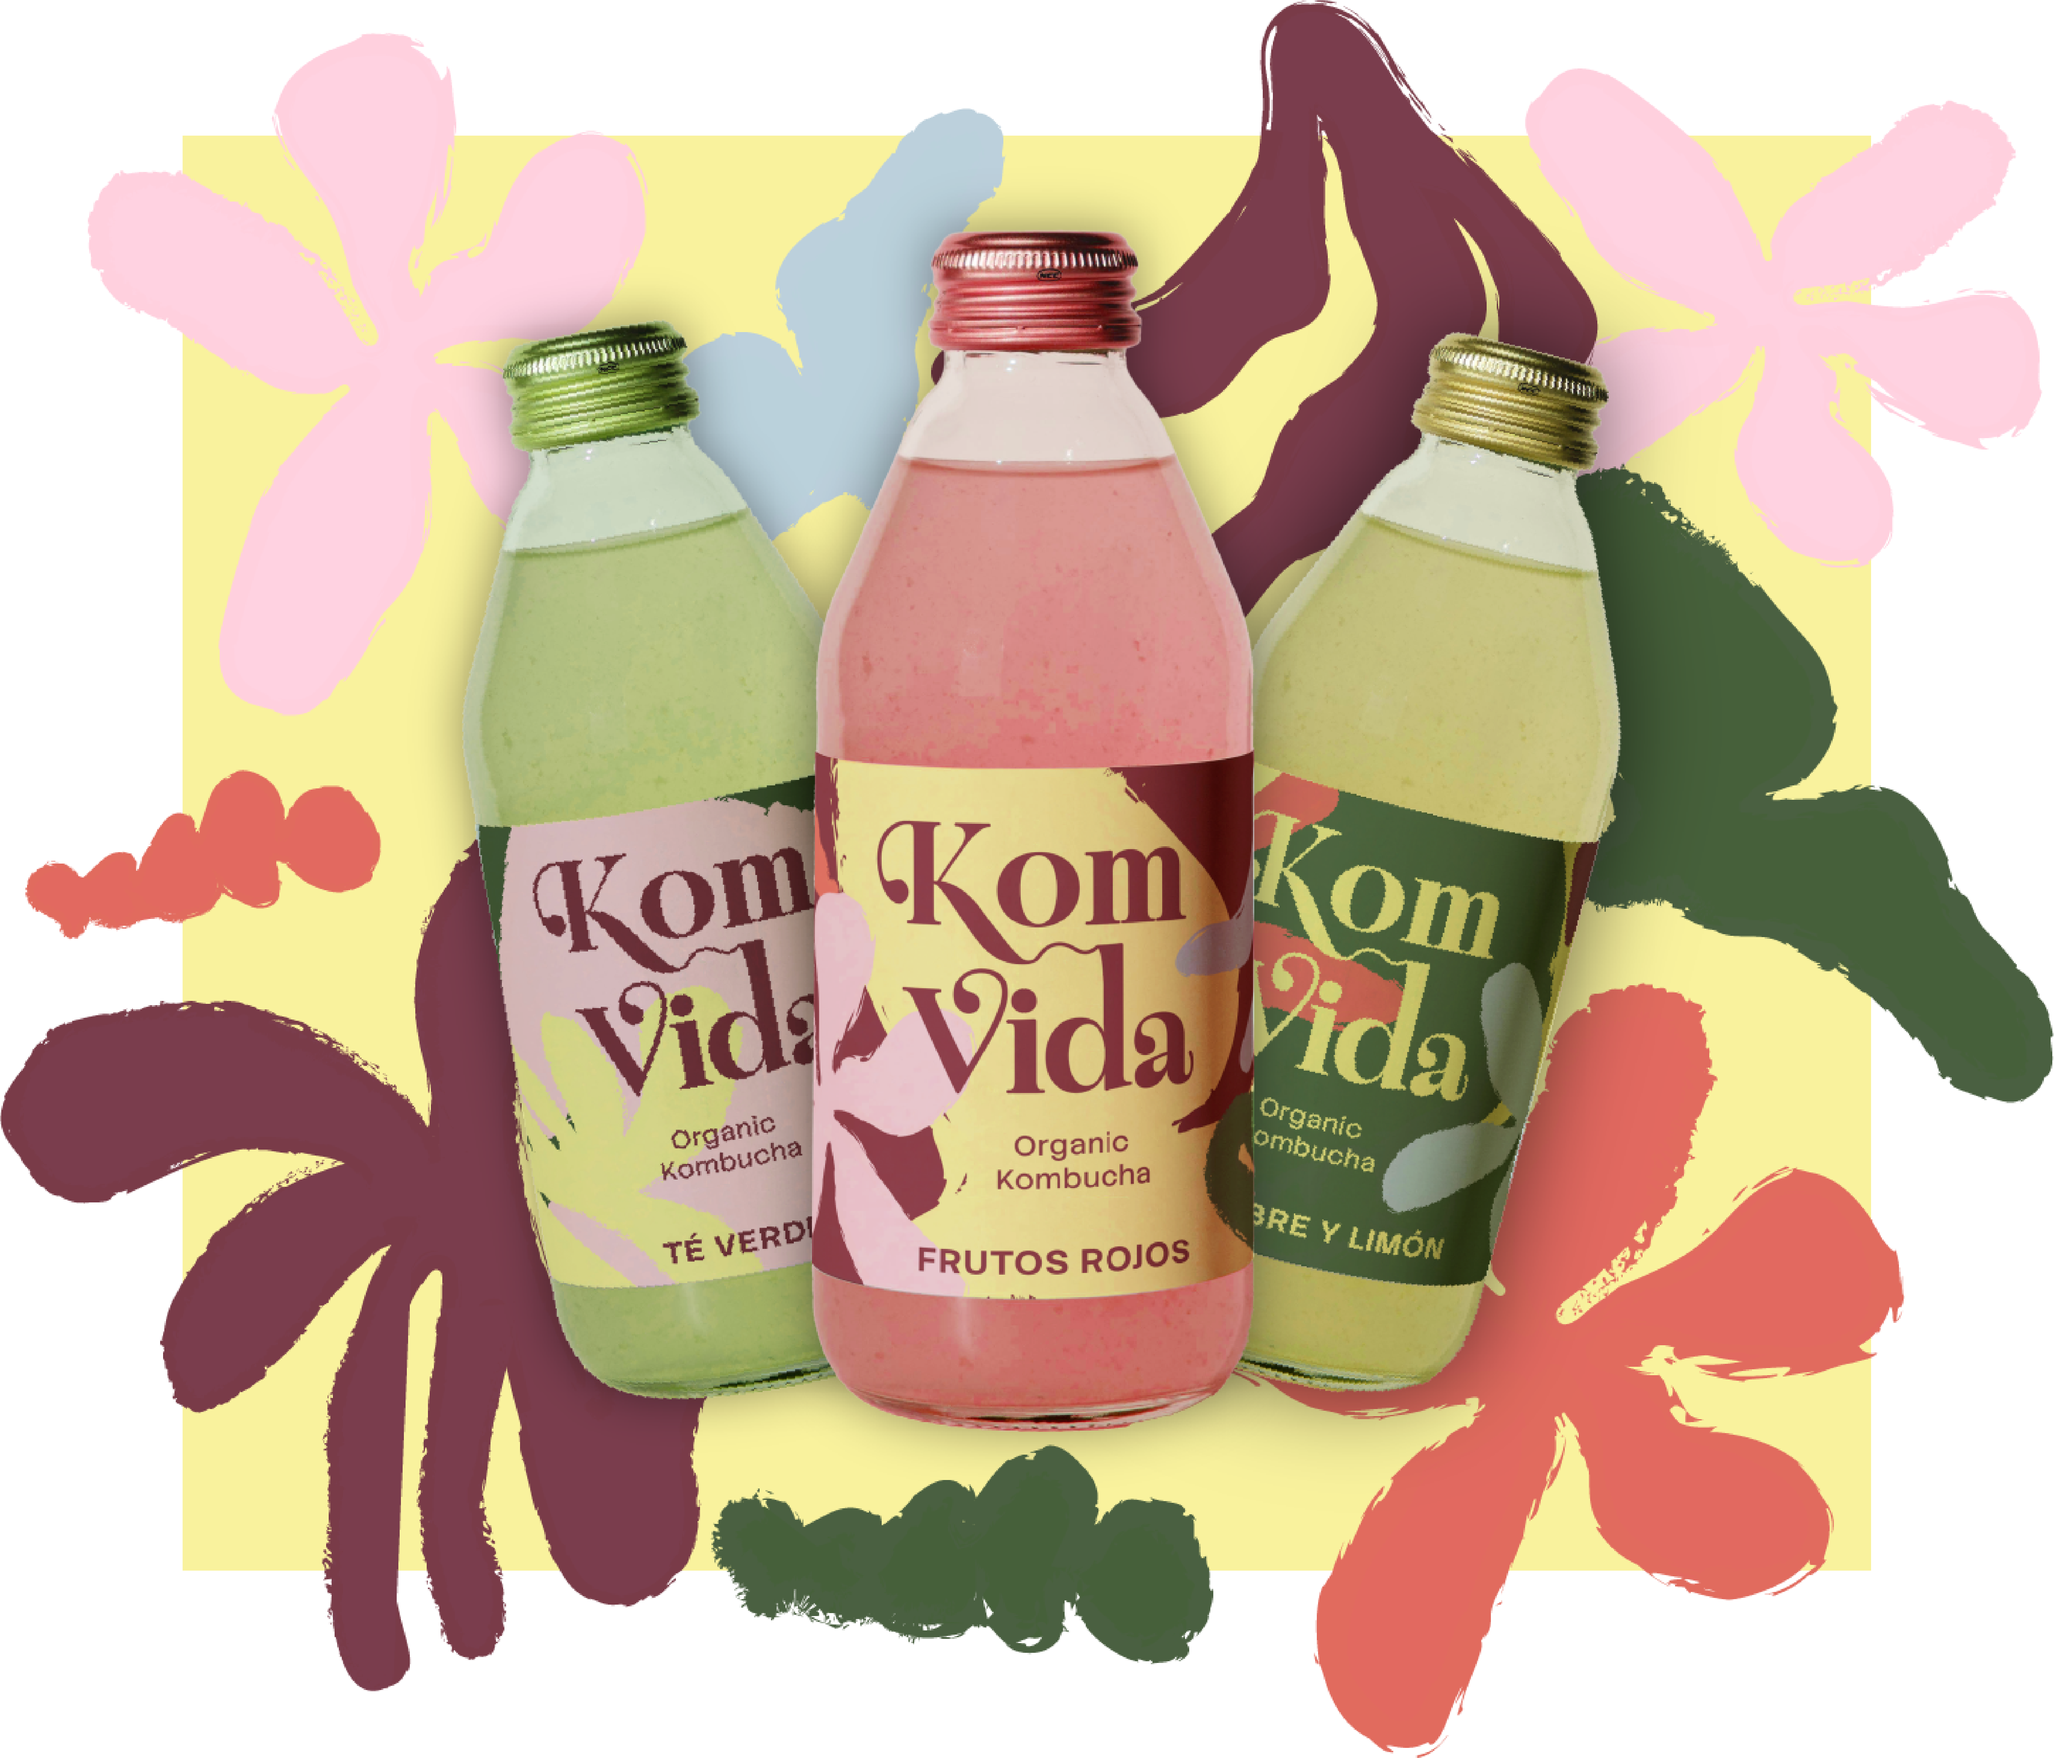
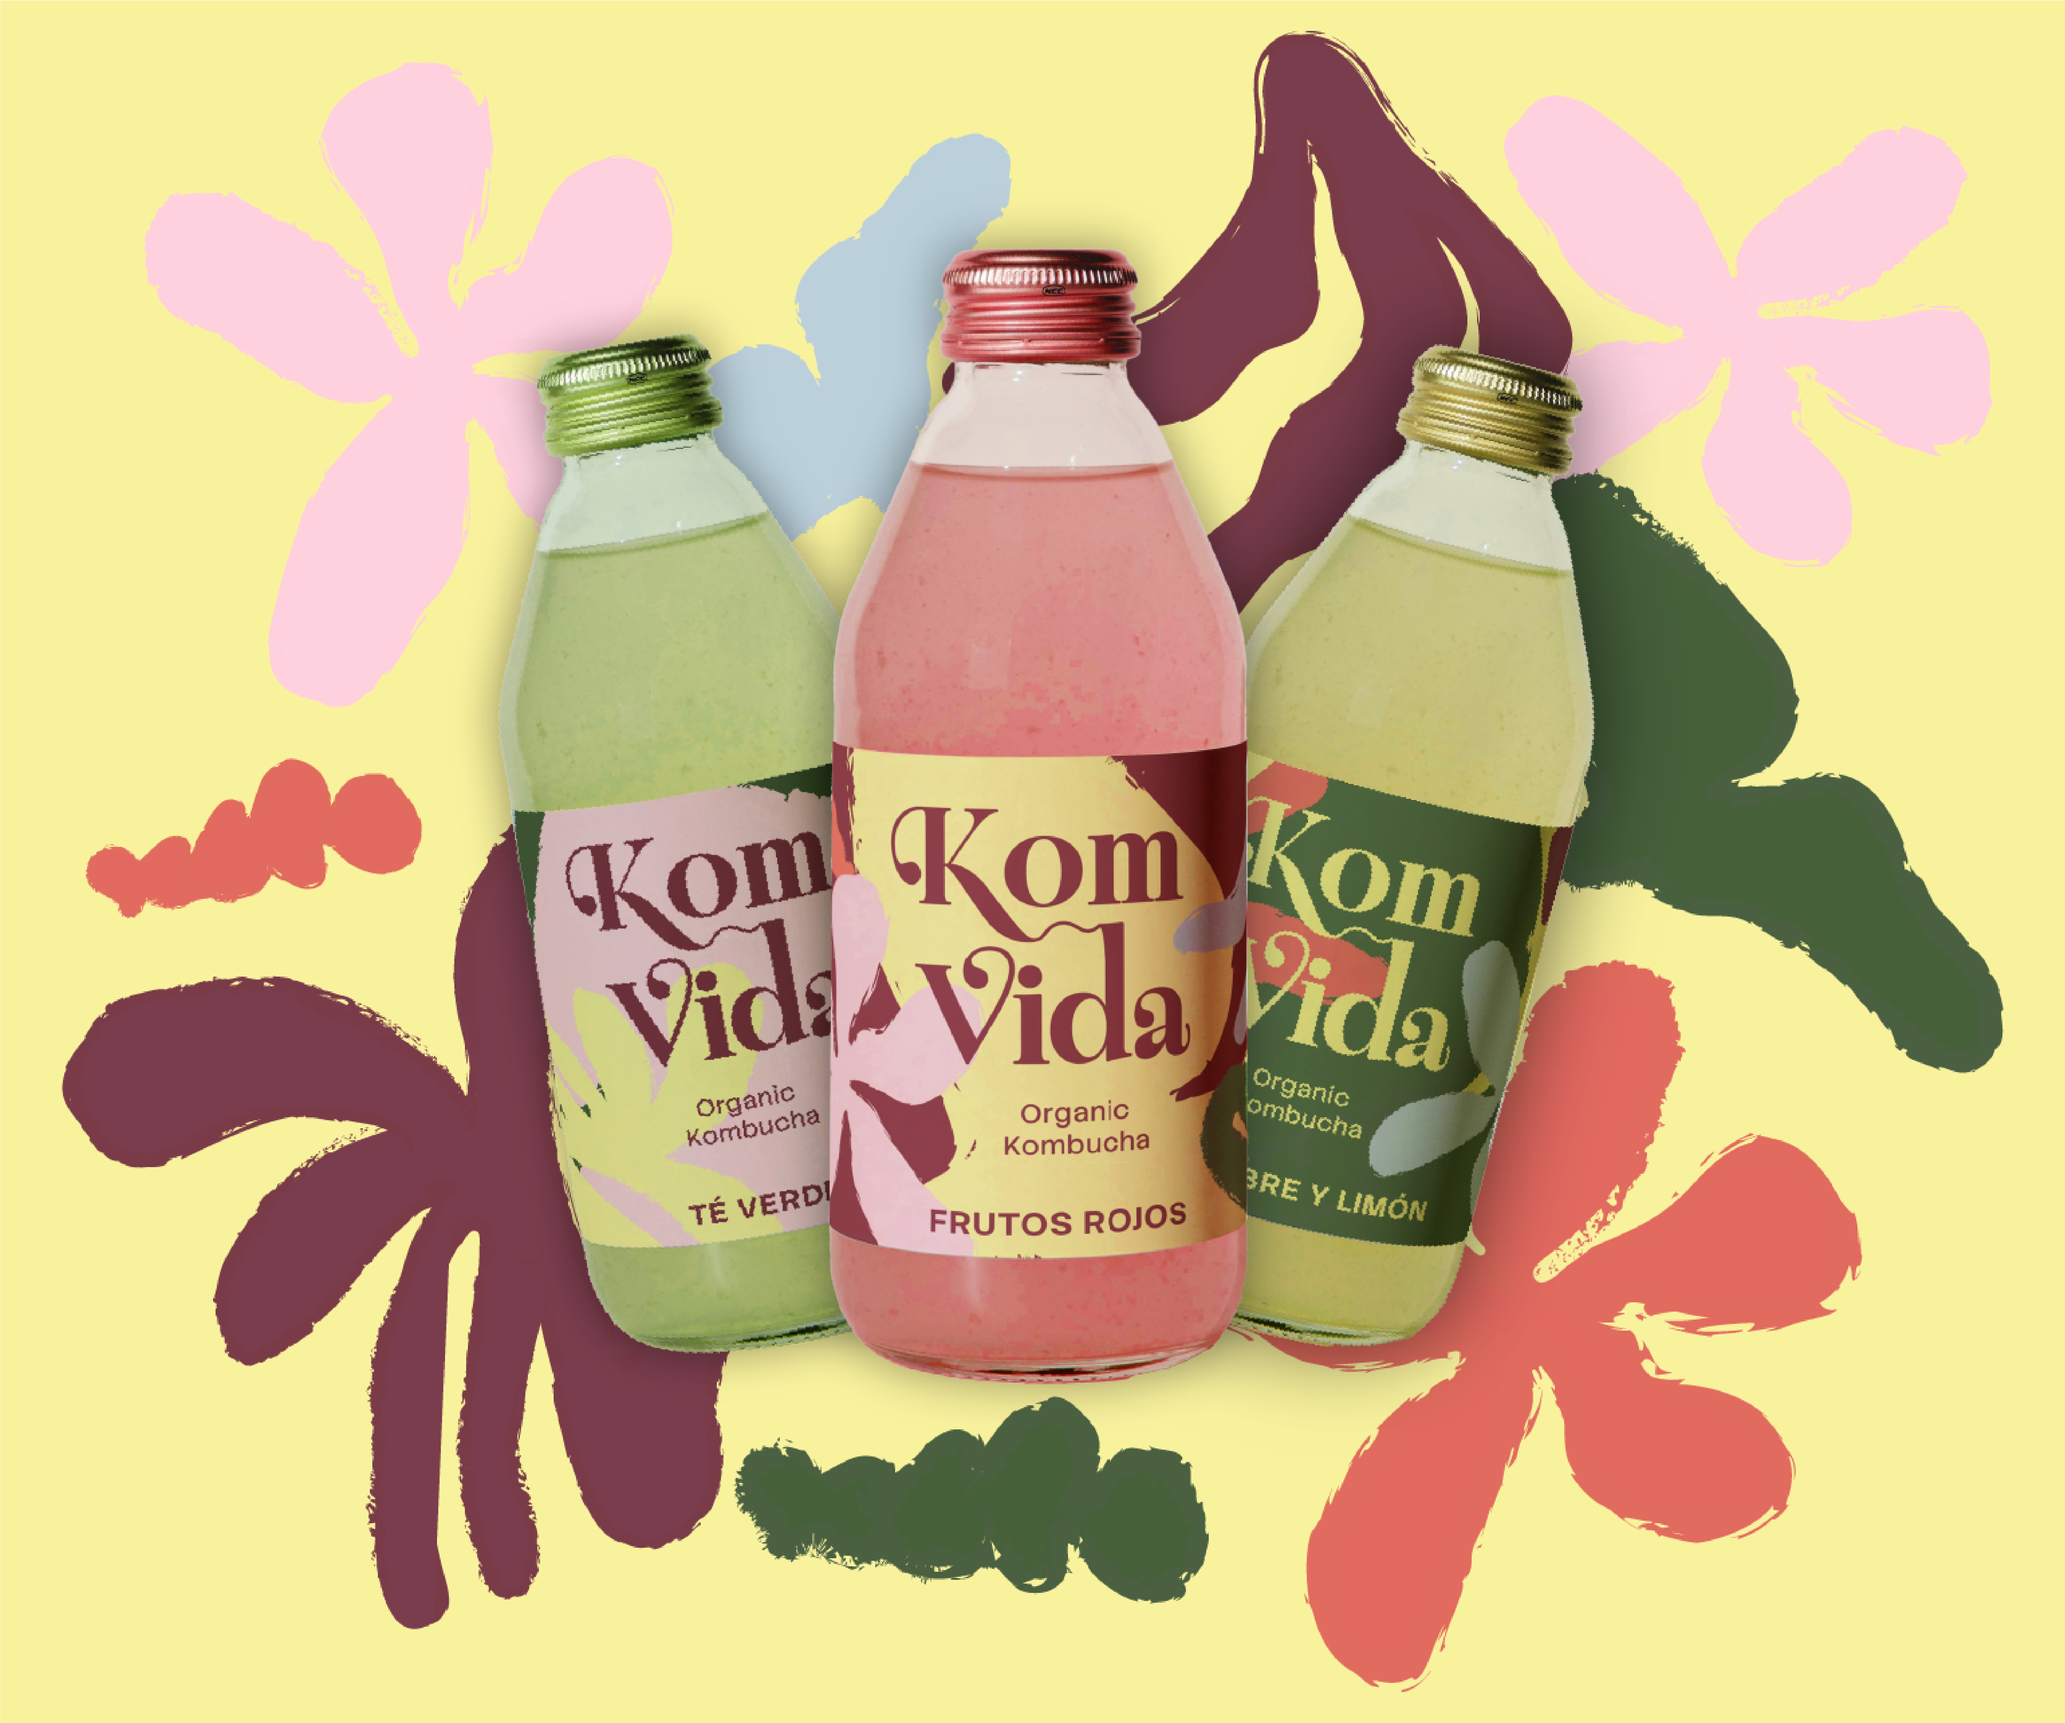
Contacto + footer

diff --git a/css/styles.css b/css/styles.css
@@ -40,8 +40,10 @@ header > figure {
   display: flex;
   align-items: center;
   gap: 2rem;
-  width: 1300px;
+  width: 1050px;
   height: auto;
+  margin-top: 4.5rem;
+  margin-left: 12rem;
 }
 
 h1 {
@@ -74,7 +76,7 @@ h2 {
   list-style: none;
   height: 3.5rem;
   align-items: center;
-  padding: 2.5rem;
+  padding: 2rem;
   background-color: rgb(255, 255, 255);
 }
 
@@ -159,21 +161,26 @@ p1 {
 }
 
 #proyectos > div {
-  display: flex;
-  gap: 2rem;
-  /* flex-wrap: wrap; */
+  display: grid;
+  grid-template-columns: repeat(2, 1fr);
+  gap: 3rem;
+  flex-wrap: wrap;
+  grid-column-start: left;
 }
 
 #proyectos > div > figure {
   position: relative;
   flex: 1 1 250px;
+  justify-content: flex-start;
 }
 
-/* #proyectos > div > figure > img {
-  height: 100%;
-  object-fit: cover;
+#proyectos > div > figure > img {
+  width: 100%;
+  height: auto;
+  display: block;
+  object-fit: contain;
   object-position: center;
-} */
+}
 
 #proyectos > div > figure > p {
   color: white;
@@ -191,21 +198,18 @@ p1 {
 }
 
 #proyectos > div > figure > p2 {
-  color: rgb(255, 255, 255);
-  text-align: center;
-}
-
-#proyectos > div > figure > p2 {
+  font-size: 2rem;
   position: absolute;
   color: rgb(0, 0, 0);
   font-weight: lighter;
   font-style: normal;
-  background-color: white;
+  background-color: rgba(255, 255, 255, 0.792);
+  backdrop-filter: blur(2px);
   z-index: 1;
-  top: 0%;
-  left: 0%;
+  top: 1.5rem;
+  left: 0;
   width: 100%;
-  height: 100%;
+  height: 96%;
   display: flex;
   align-items: center;
   justify-content: center;
@@ -214,7 +218,7 @@ p1 {
 
 #proyectos > div > figure:hover > p2 {
   opacity: 1;
-  transition: 1s;
+  transition: 0.5s;
 }
 
 section {
@@ -222,3 +226,108 @@ section {
   padding: 0 2rem;
   scroll-margin-top: 3rem;
 }
+
+/* Maquetación de la sección Contacto */
+#contacto > {
+  display: flex;
+  justify-content: space-between;
+}
+
+#contacto > div {
+  width: 30%;
+  display: flex;
+  flex-direction: column;
+  justify-content: space-around;
+}
+
+#contacto > div > form,
+#contacto > div > ul {
+  width: 100%;
+}
+
+/*Maquetación del formulario*/
+#contacto > div > form > input,
+#contacto > div > form > textarea {
+  display: block;
+  width: 100%;
+  height: 2em;
+  margin: 1em 0;
+  border: #c5d4dd 1px solid;
+}
+
+#contacto > div > form > textarea {
+  height: 5em;
+}
+
+/* Maquetación botón de enviar formulario. */
+#contacto > div > form > input[type="submit"] {
+  color: black;
+  background-color: #c5d4dd;
+  border: none;
+  width: 5em;
+  margin: 1em auto;
+  cursor: pointer;
+  transition: 0.5s ease;
+}
+
+#contacto > div > form > input[type="submit"]:hover {
+  color: white;
+  background-color: rgb(119, 144, 201);
+}
+
+#contacto > div > form > label {
+  display: none;
+}
+
+* footer > ul {
+  color: black;
+  display: flex;
+  justify-content: space-between;
+  list-style: none;
+  height: 3.5rem;
+  align-items: center;
+  padding: 2.5rem;
+  background-color: rgb(255, 255, 255);
+}
+
+/* Media Queris
+@media screen and (max-width: 950px) {
+  /* Estilos que cambian para pantallas de menos de 950px de ancho */
+/* body {
+  background-color: rgb(0, 26, 255);
+}
+  #ciudad > div {
+    flex-direction: column;
+  }
+  #propuestas > div > figure {
+    flex: 1 1 200px;
+  }
+
+  @media screen and (max-width: 500px) {
+    #transportes > div {
+      flex-direction: column;
+    }
+  }
+}
+@media screen and (max-width: 500px) {
+  h1 {
+    font-size: 2rem;
+  }
+
+Maquetación
+  #menu > ul {
+    flex-direction: column;
+     Flex-start es justificar a la izquierda
+    align-items: flex-start;
+    height: 5rem;
+    justify-content: center;
+  }
+
+  header {
+    height: calc(100vh - 5rem);
+  }
+
+  section {
+    scroll-margin-top: 5rem;
+  }
+} */

diff --git a/index.html b/index.html
@@ -16,9 +16,9 @@
   <body>
     <!--Aquí va el contenido de la página-->
     <header id="inicio">
-      <h1><i class="fa-solid fa-city"></i>Portfolio.</h1>
+      <!-- <h1><i class="top"></i>Portfolio.</h1> -->
       <figure>
-        <img src="img/hero portfolio blanco.png" alt="xxxxxx" />
+        <img src="img/hero portfolio.png" alt="xxxxxx" />
       </figure>
     </header>
     <nav id="menu">
@@ -39,7 +39,7 @@
     </nav>
 
     <section id="sobremi">
-      <h1><i class="fa-solid fa-city"></i>Portfolio.</h1>
+      <!-- <h1><i class="box-with-text"></i>Portfolio.</h1> -->
       <h2><i class="fa-solid fa-city"></i> Sobre mi</h2>
       <!-- Contenedor con el contenido de la sección-->
       <div>
@@ -63,47 +63,57 @@
       </div>
     </section>
 
-    <section id="proyectos">
-      <h2><i class="fa-solid fa-city"></i> Mis proyectos</h2>
+    <section id="proyectos" class="galeria">
       <!-- Contenedor con el contenido de la sección-->
       <div>
-        <!-- Contenedor con los dos párrafos -->
-        <div>
-          <p><i class="fa-solid fa-tree"></i></p>
-        </div>
         <figure>
-          <p1>1.</p1>
+          <p2>Ver proyecto</p2>
           <img src="img/Komvida.png" alt="Komvida" />
           <figcaption>Rebranding de la marca “Komvida”</figcaption>
         </figure>
         <figure>
-          <p1>2.</p1>
+          <p2>Ver proyecto</p2>
           <img src="img/Alma marina.png" alt="Alma marina" />
           <figcaption>Branding y packaging</figcaption>
         </figure>
         <figure>
-          <p1>3.</p1>
+          <p2>Ver proyecto</p2>
           <img src="img/Grabando.png" alt="Grabando" />
           <figcaption>Vídeo-arte “Grabando”</figcaption>
         </figure>
         <figure>
-          <p1>4.</p1>
+          <p2>Ver proyecto</p2>
           <img src="img/Oasis.png" alt="Oasis" />
           <figcaption>Creación de una App. Diseño UX/UI.</figcaption>
         </figure>
         <figure>
-          <p1>5.</p1>
+          <p2>Ver proyecto</p2>
           <img src="img/Calendario.png" alt="Calendario 2027" />
           <figcaption>Calendario 2027. Diseño editorial.</figcaption>
+        </figure>
+        <figure>
+          <p2>Ver proyecto</p2>
+          <img src="img/Ilustraciones.png" alt="Ilustraciones" />
+          <figcaption>Ilustraciones portadas libros infantiles</figcaption>
         </figure>
       </div>
     </section>
 
     <section id="contacto">
       <h2><i class="fa-solid fa-city"></i> Contacto</h2>
-      <!-- Contenedor con el contenido de la sección-->
       <div>
-        <!-- Contenedor con los dos párrafos -->
+        <form>
+          <p>Escríbeme tus comentarios</p>
+          <label for="nombre">Nombre:</label>
+          <input type="text" id="nombre" placeholder="Nombre" />
+          <label for="correo">Correo electrónico:</label>
+          <input type="email" id="correo" placeholder="Correo electrónico" />
+          <label for="comentarios">Comentarios</label>
+          <textarea id="comentarios" placeholder="Tus comentarios"></textarea>
+          <input type="submit" value="Enviar" />
+        </form>
+      </div>
+      <div>
         <div>
           <p>xxxxxx<i class="fa-solid fa-tree"></i></p>
         </div>
@@ -114,9 +124,12 @@
     </section>
 
     <footer>
-      <p>oliviacendra@gmail.com</p>
-      <p>®2026</p>
-      <p>Instagram</p>
+      <!-- <img src="img/header 3.jpg" alt="xxxxxx" /> -->
+      <ul>
+        <li>Olivia Cendra Calavia</li>
+        <li>Instagram</li>
+        <li>®2026</li>
+      </ul>
     </footer>
   </body>
 </html>
